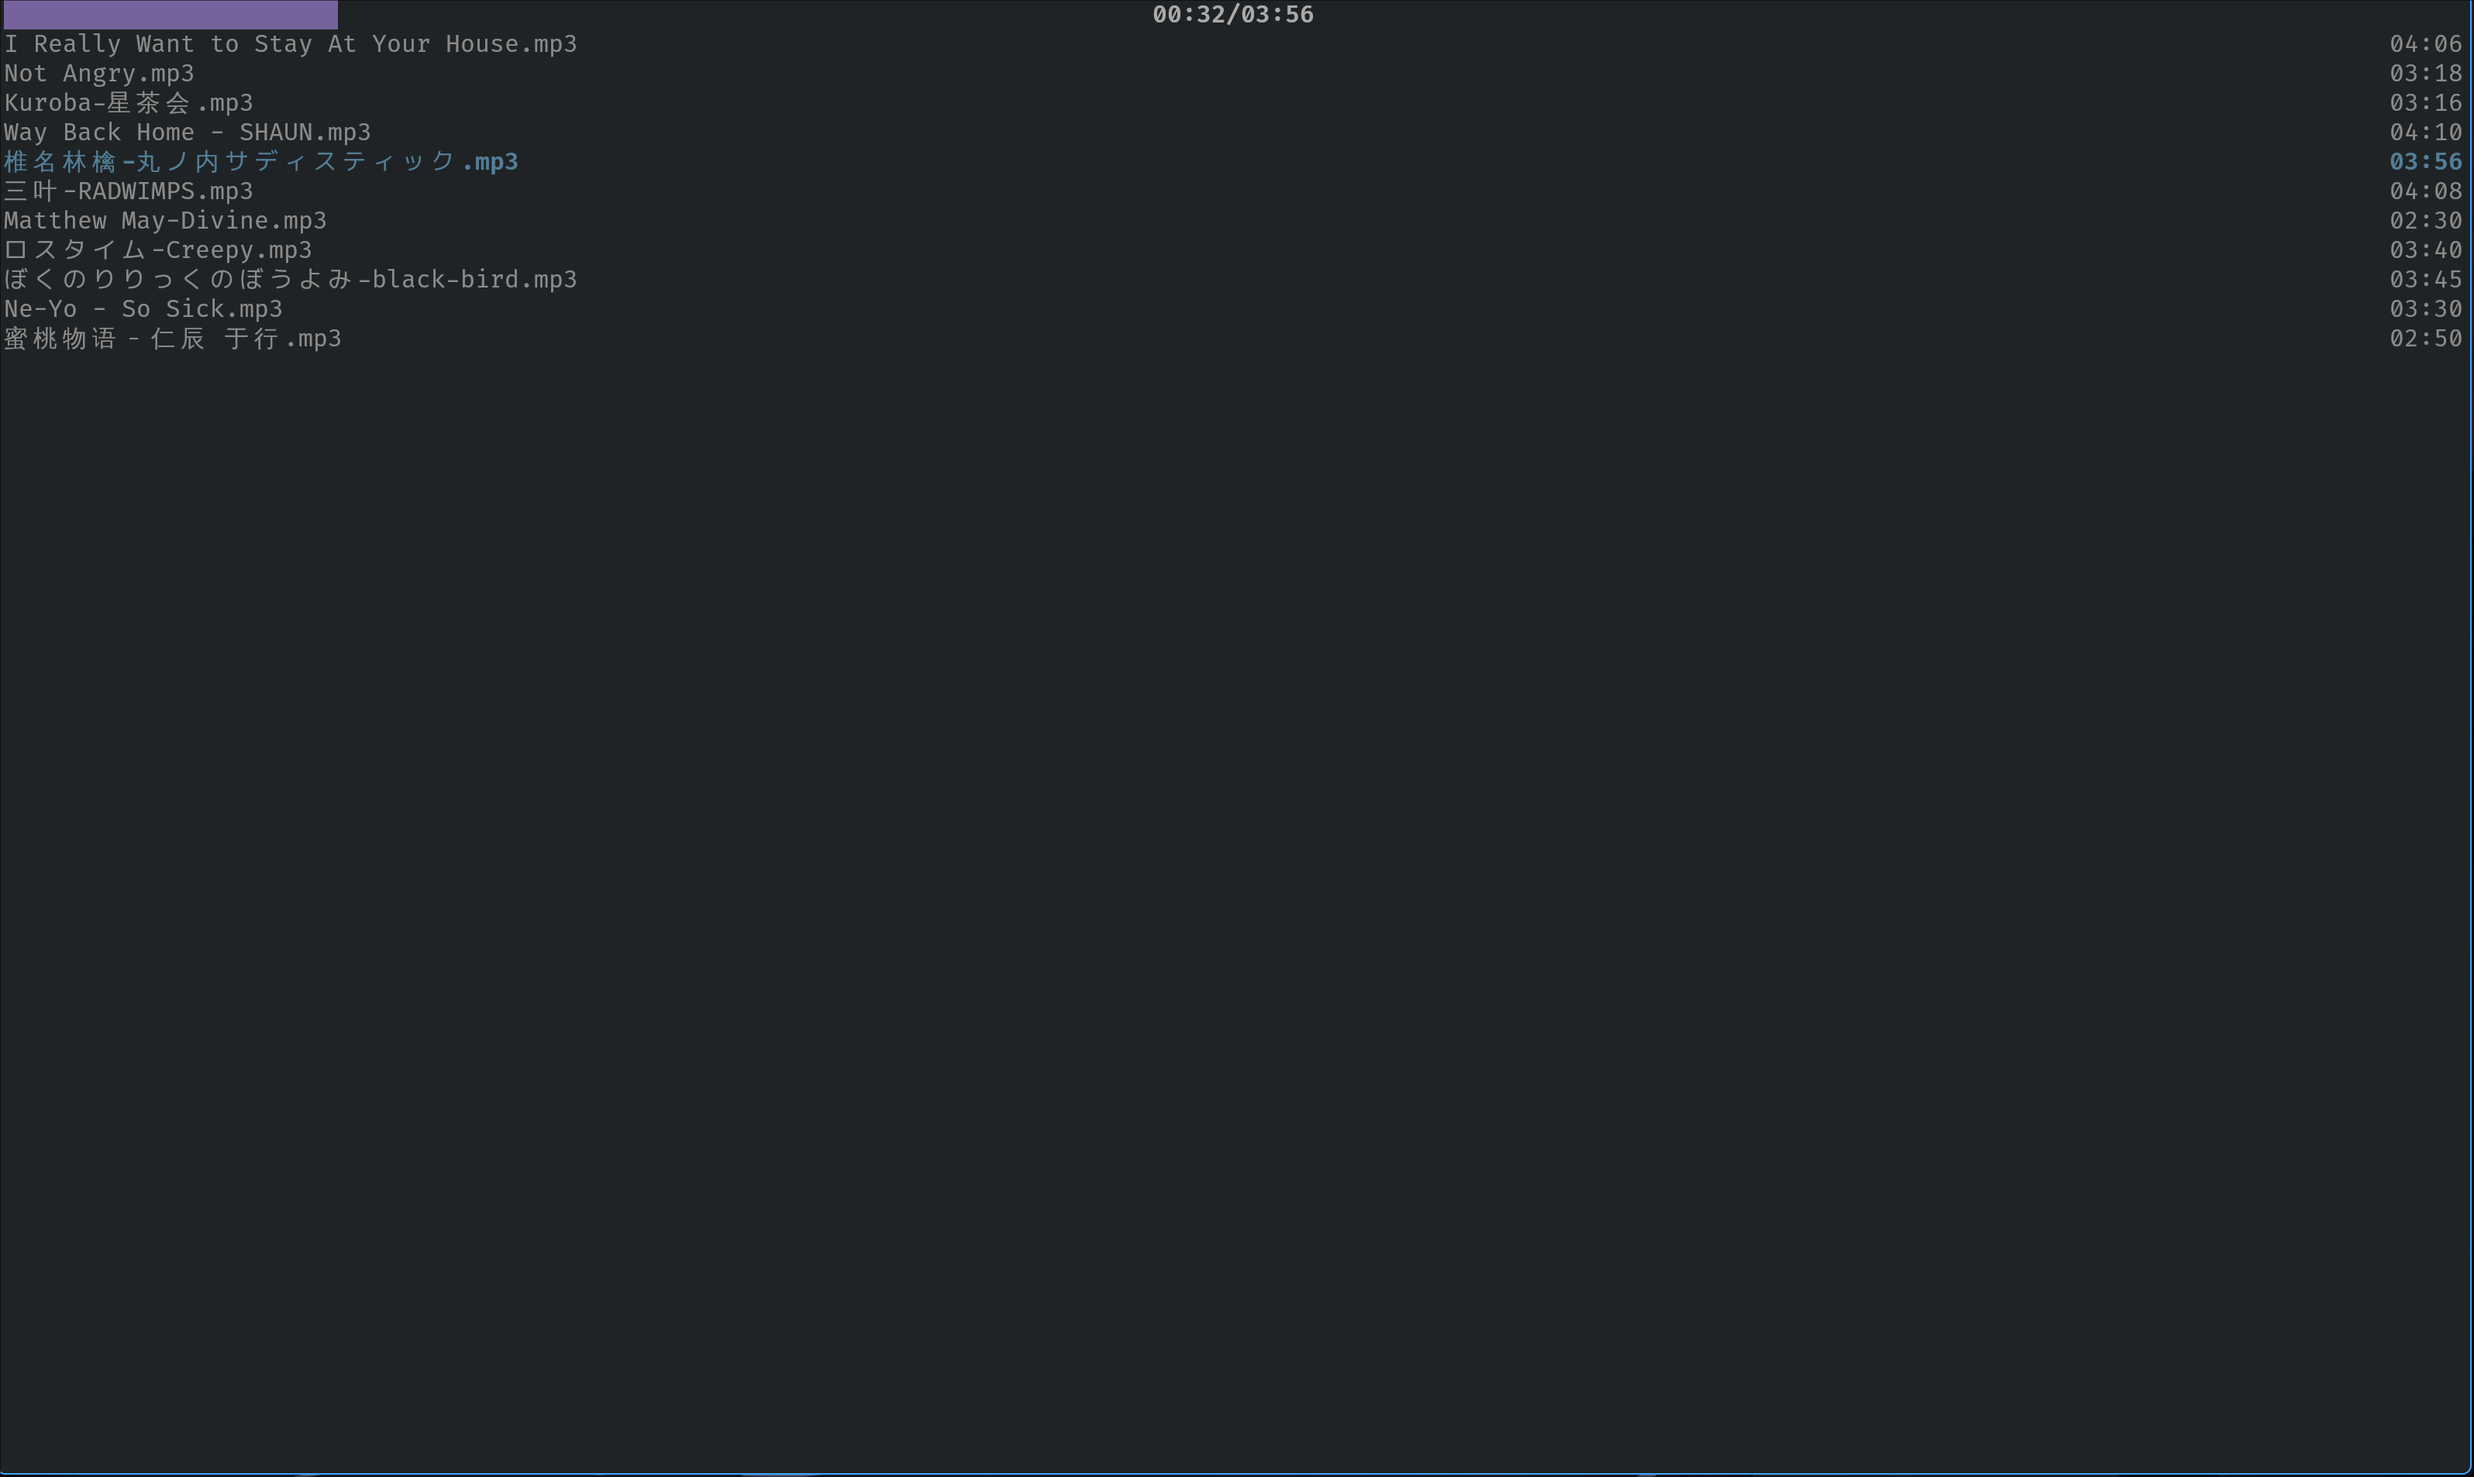
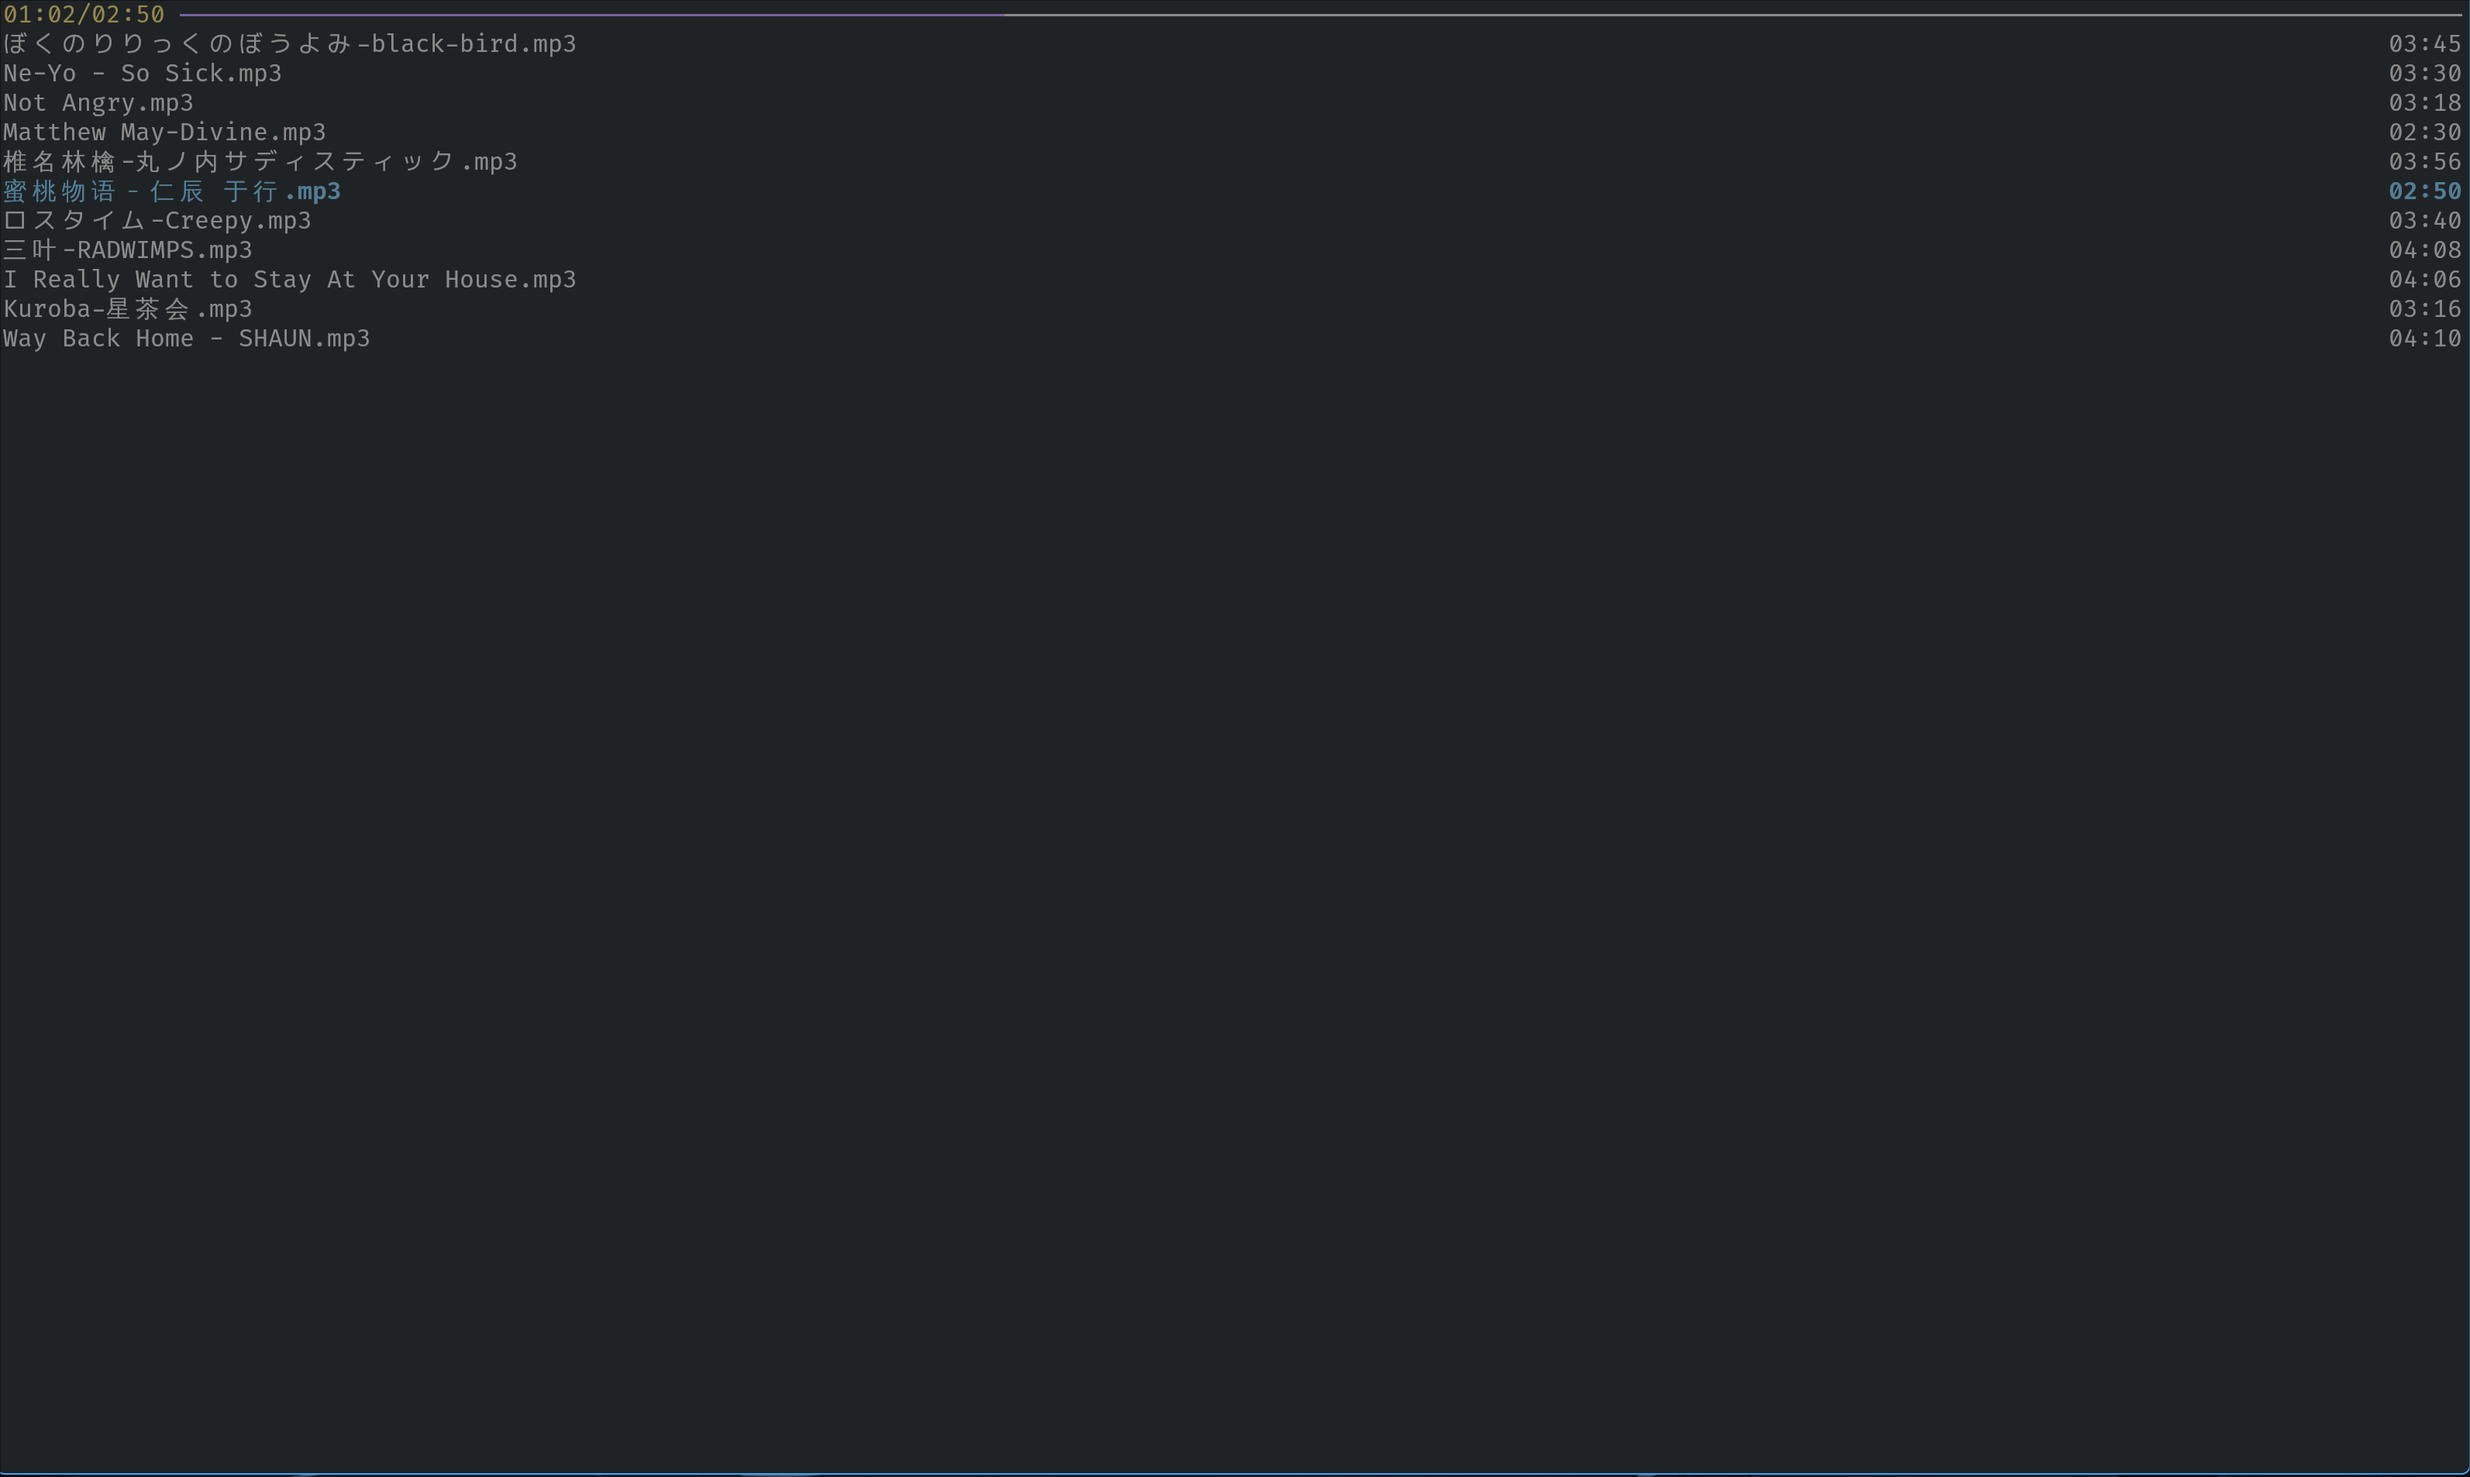
change the ui

diff --git a/src/ui.rs b/src/ui.rs
@@ -5,6 +5,7 @@ use ratatui::{
     backend::Backend,
     layout::{Constraint, Layout, Rect},
     style::{Color, Modifier, Style},
+    symbols,
     text::{Line, Span},
     widgets::*,
     Frame, Terminal,
@@ -86,16 +87,13 @@ fn draw_gauge(f: &mut Frame, app: &App, chunk: Rect) {
             "{:02}:{:02}/{:02}:{:02}",
             app.cur_time.0, app.cur_time.1, app.tot_time.0, app.tot_time.1
         ),
-        Style::default()
-            .fg(Color::White)
-            .add_modifier(Modifier::BOLD),
+        Style::default().fg(Color::Yellow),
     );
-    let gauge = Gauge::default()
-        .block(Block::default().borders(Borders::NONE))
-        .gauge_style(Style::default().fg(Color::Magenta))
+    let gauge = LineGauge::default()
+        .filled_style(Style::default().fg(Color::Magenta))
+        .line_set(symbols::line::THICK)
         .label(label)
-        .ratio(app.progress)
-        .use_unicode(true);
+        .ratio(app.progress);
     f.render_widget(gauge, chunk);
 }
 
@@ -143,11 +141,10 @@ fn draw_first_tab(f: &mut Frame, app: &mut App, chunk: Rect) {
 /// Draw the second tab.
 fn draw_second_tab(f: &mut Frame, app: &App, chunk: Rect) {
     let barchart = BarChart::default()
-        .block(Block::default().title("Data1").borders(Borders::ALL))
         .data(&app.barchart_data)
-        .bar_width(9)
+        .bar_width(7)
         .bar_style(Style::default().fg(Color::Yellow))
-        .value_style(Style::default().fg(Color::Black).bg(Color::Yellow));
+        .value_style(Style::default().fg(Color::Yellow).bg(Color::Yellow));
     f.render_widget(barchart, chunk);
 }
 
